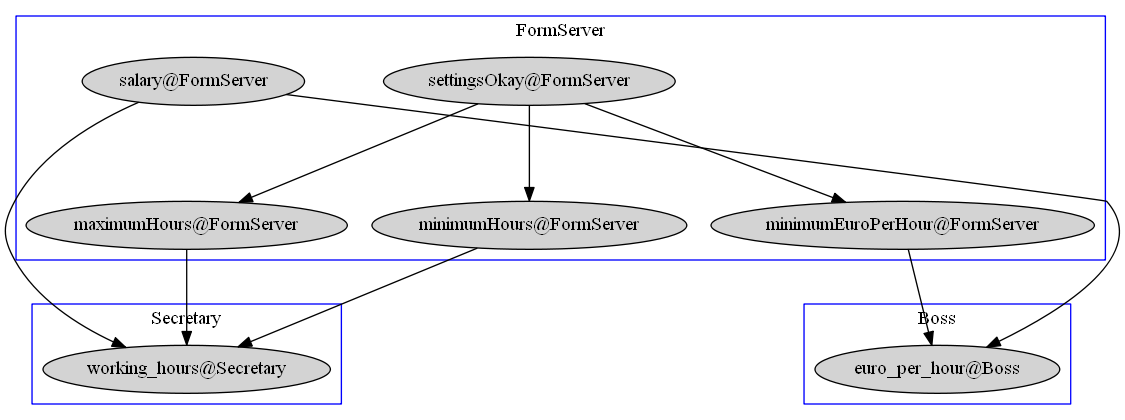
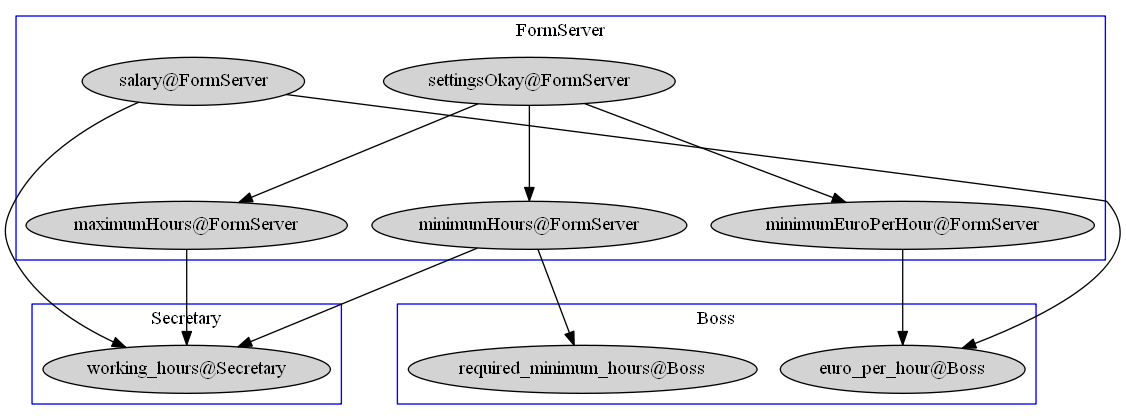
extended form example

diff --git a/Dream2/src/examples/java/dream/examples/form/FormGUI.java b/Dream2/src/examples/java/dream/examples/form/FormGUI.java
@@ -3,6 +3,9 @@ package dream.examples.form;
 import java.awt.BorderLayout;
 import java.awt.Color;
 import java.awt.Dimension;
+import java.awt.GridLayout;
+import java.awt.event.ActionEvent;
+import java.awt.event.ActionListener;
 import java.awt.event.KeyEvent;
 import java.awt.event.KeyListener;
 
@@ -15,52 +18,47 @@ import javax.swing.JTextField;
 public class FormGUI extends JFrame {
 
 	private static final long serialVersionUID = 9205614575242281482L;
-	private JTextField sendText;
+	private JTextField[] sendText;
 	private FormClient listener;
 	private JLabel display;
+	private String[] labelText;
 
-	public FormGUI(String name, String labelText) {
-		initUI(labelText);
+	public FormGUI(String name, String... labelText) {
 		setTitle(name);
+		this.labelText = labelText;
+		initUI();
 	}
 
-	private void initUI(String labelText) {
-		sendText = new JTextField(20);
-		sendText.addKeyListener(new KeyListener() {
+	private void initUI() {
+		getContentPane().setLayout(new BorderLayout());
+		JPanel all = new JPanel();
+		all.setLayout(new GridLayout(0, 2));
+		getContentPane().add(all, BorderLayout.CENTER);
 
-			@Override
-			public void keyTyped(KeyEvent e) {
-			}
+		sendText = new JTextField[labelText.length];
 
-			@Override
-			public void keyReleased(KeyEvent e) {
-			}
+		for (int i = 0; i < labelText.length; i++) {
+			sendText[i] = new JTextField(20);
+			sendText[i].addKeyListener(new MultiListener(i));
+			JButton sendButton = new JButton("Set");
+			sendButton.addActionListener(new MultiListener(i));
 
-			@Override
-			public void keyPressed(KeyEvent e) {
-				if (e.getKeyCode() == KeyEvent.VK_ENTER)
-					sendText();
-			}
-		});
-		JButton sendButton = new JButton("Set");
-		sendButton.addActionListener((e) -> sendText());
+			JLabel label = new JLabel(labelText[i] + ": ");
+
+			JPanel p = new JPanel();
+			p.add(label);
+			p.add(sendText[i]);
+
+			all.add(p);
+			all.add(sendButton);
+		}
 
 		display = new JLabel("");
 		display.setPreferredSize(new Dimension(100, 30));
 		display.setMinimumSize(new Dimension(100, 30));
 		display.setOpaque(true);
-
-		JLabel label = new JLabel(labelText + ": ");
-
-		JPanel p = new JPanel();
-		p.add(label);
-		p.add(sendText);
-
-		BorderLayout lay = new BorderLayout();
-		getContentPane().setLayout(lay);
-		getContentPane().add(p, BorderLayout.WEST);
-		getContentPane().add(sendButton, BorderLayout.EAST);
 		getContentPane().add(display, BorderLayout.NORTH);
+
 		// setSize(300, 200);
 		setLocationRelativeTo(null);
 		setDefaultCloseOperation(EXIT_ON_CLOSE);
@@ -69,16 +67,24 @@ public class FormGUI extends JFrame {
 		setVisible(true);
 	}
 
-	private void sendText() {
-		listener.typedText(getTypedText());
+	public void setInitValues(String... values) {
+		for (int i = 0; i < values.length; i++) {
+			if (sendText[i].getText() == null || sendText[i].getText().isEmpty()) {
+				sendText[i].setText(values[i]);
+			}
+		}
+	}
+
+	private void sendText(int i) {
+		listener.typedText(i, getTypedText(i));
 	}
 
 	public void setListener(FormClient c) {
 		listener = c;
 	}
 
-	public String getTypedText() {
-		return sendText.getText();
+	public String getTypedText(int i) {
+		return sendText[i].getText();
 	}
 
 	public void setText(String text) {
@@ -89,4 +95,30 @@ public class FormGUI extends JFrame {
 		display.setBackground(bg);
 	}
 
+	class MultiListener implements KeyListener, ActionListener {
+		private int i;
+
+		public MultiListener(int i) {
+			this.i = i;
+		}
+
+		@Override
+		public void keyTyped(KeyEvent e) {
+		}
+
+		@Override
+		public void keyReleased(KeyEvent e) {
+		}
+
+		@Override
+		public void keyPressed(KeyEvent e) {
+			if (e.getKeyCode() == KeyEvent.VK_ENTER)
+				sendText(i);
+		}
+
+		@Override
+		public void actionPerformed(ActionEvent e) {
+			sendText(i);
+		}
+	}
 }

diff --git a/Dream2/src/examples/java/dream/examples/form/FormServer.java b/Dream2/src/examples/java/dream/examples/form/FormServer.java
@@ -13,6 +13,7 @@ public class FormServer extends Client {
 
 	protected RemoteVar<Integer> working_hours;
 	protected RemoteVar<Double> euro_per_hour;
+	protected RemoteVar<Integer> required_minimum_hours;
 
 	public FormServer() {
 		super("FormServer");
@@ -23,7 +24,7 @@ public class FormServer extends Client {
 	 * Look for new clients every 5 seconds
 	 */
 	private void detectNewSession() {
-		while (euro_per_hour == null || working_hours == null) {
+		while (euro_per_hour == null || working_hours == null || required_minimum_hours == null) {
 			for (String str : DreamClient.instance.listVariables()) {
 				String host = str.split("@")[1];
 				String var = str.split("@")[0];
@@ -32,6 +33,9 @@ public class FormServer extends Client {
 					logger.fine("Found Secretary");
 				} else if (euro_per_hour == null && var.equalsIgnoreCase("euro_per_hour")) {
 					euro_per_hour = new RemoteVar<>(host, var);
+					logger.fine("Found Boss");
+				} else if (required_minimum_hours == null && var.equalsIgnoreCase("required_minimum_hours")) {
+					required_minimum_hours = new RemoteVar<>(host, "required_minimum_hours");
 					logger.fine("Found Boss");
 				}
 			}
@@ -48,11 +52,11 @@ public class FormServer extends Client {
 		logger.fine("Building Dependencies");
 
 		final Signal<Boolean> minimumHours = new Signal<>("minimumHours", () -> {
-			if (working_hours.get() != null)
-				return working_hours.get() > 10;
+			if (working_hours.get() != null && required_minimum_hours.get() != null)
+				return working_hours.get() > required_minimum_hours.get();
 			else
 				return false;
-		}, working_hours);
+		}, working_hours, required_minimum_hours);
 
 		final Signal<Boolean> maximumHours = new Signal<>("maximumHours", () -> {
 			if (working_hours.get() != null)

diff --git a/Dream2/src/examples/java/dream/examples/form/FormClient.java b/Dream2/src/examples/java/dream/examples/form/FormClient.java
@@ -16,9 +16,10 @@ public abstract class FormClient extends Client {
 	private Signal<Boolean> remoteSettings;
 
 	private FormGUI gui;
-	private String labelText;
+	private String[] labelText;
+	private String[] values;
 
-	public FormClient(String name, String labelText) {
+	public FormClient(String name, String... labelText) {
 		super(name);
 		this.labelText = labelText;
 	}
@@ -31,6 +32,8 @@ public abstract class FormClient extends Client {
 	protected void start() {
 		gui = new FormGUI(getHostName(), labelText);
 		gui.setListener(this);
+		if (values != null)
+			gui.setInitValues(values);
 
 		salary = new RemoteVar<>("FormServer", "salary");
 		settings = new RemoteVar<>("FormServer", "settingsOkay");
@@ -55,5 +58,9 @@ public abstract class FormClient extends Client {
 		remoteSettings.change().addHandler((o, n) -> gui.setColor((n ? Color.green : Color.red)));
 	}
 
-	public abstract void typedText(String typedText);
+	public abstract void typedText(int i, String typedText);
+
+	public void setInitValues(String... values) {
+		this.values = values;
+	}
 }

diff --git a/Dream2/src/examples/java/dream/examples/form/Boss.java b/Dream2/src/examples/java/dream/examples/form/Boss.java
@@ -5,21 +5,36 @@ import dream.client.Var;
 public class Boss extends FormClient {
 
 	private Var<Double> eph;
+	private Var<Integer> rmh;
 
 	public Boss() {
-		super("Boss", "Euro/Hour");
+		super("Boss", "Euro/Hour", "Minimum Hours");
+		setInitValues(Double.toString(8.5), Integer.toString(10));
 	}
 
 	@Override
 	protected void init() {
 		eph = new Var<>("euro_per_hour", 8.5);
+		rmh = new Var<>("required_minimum_hours", 10);
 	}
 
 	@Override
-	public void typedText(String typedText) {
-		Double value = Double.valueOf(typedText);
-		eph.set(value);
-		logger.fine("Set Euro_Per_Hour to " + value);
+	public void typedText(int i, String typedText) {
+		switch (i) {
+		case 0:
+			Double value = Double.valueOf(typedText);
+			eph.set(value);
+			logger.fine("Set Euro_Per_Hour to " + value);
+			break;
+		case 1:
+			Integer value2 = Integer.valueOf(typedText);
+			rmh.set(value2);
+			logger.fine("Set Required_Minimum_Hours to " + value2);
+			break;
+		default:
+			break;
+		}
+
 	}
 
 	public static void main(String[] args) {

diff --git a/Dream2/src/examples/java/dream/examples/form/Secretary.java b/Dream2/src/examples/java/dream/examples/form/Secretary.java
@@ -8,6 +8,7 @@ public class Secretary extends FormClient {
 
 	public Secretary() {
 		super("Secretary", "Working Hours");
+		setInitValues(Integer.toString(5));
 	}
 
 	@Override
@@ -16,7 +17,7 @@ public class Secretary extends FormClient {
 	}
 
 	@Override
-	public void typedText(String typedText) {
+	public void typedText(int i, String typedText) {
 		Integer value = Integer.valueOf(typedText);
 		wh.set(value);
 		logger.fine("Set Working_Hours to " + value);
